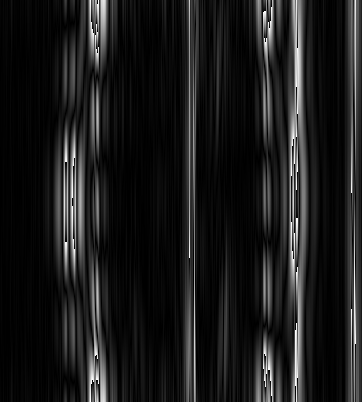
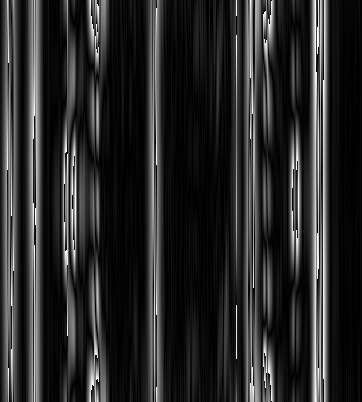
adds information on stripe removal methods

diff --git a/docs/source/scripts/methods_to_generate_images.py b/docs/source/scripts/methods_to_generate_images.py
@@ -120,7 +120,6 @@ def run_methods(path_to_data: str, output_folder: str) -> int:
     assert np.sum(data_normalized_np) > 41711
     # __save_res_to_image(data_normalized_np, output_folder, methods_name, slice_numb)
 
-    ## %%%%%%%%%%%%%%%%%%%%%%%%%%%%%%%%%%%%%%%%%%%%%%%%%%%
     methods_name = "rescale_to_int"
     print("___{}___".format(methods_name))
     from httomolibgpu.misc.rescale import rescale_to_int
@@ -225,9 +224,6 @@ def run_methods(path_to_data: str, output_folder: str) -> int:
     )
     del res_cp, res_np
 
-    return 0
-
-    ## %%%%%%%%%%%%%%%%%%%%%%%%%%%%%%%%%%%%%%%%%%%%%%%%%%%
     methods_name = "raven_filter"
     print("___{}___".format(methods_name))
     from tomophantom.artefacts import artefacts_mix
@@ -236,8 +232,8 @@ def run_methods(path_to_data: str, output_folder: str) -> int:
     )
 
     _stripes_ = {
-        "stripes_percentage": 1.2,
-        "stripes_maxthickness": 3.0,
+        "stripes_percentage": 2.0,
+        "stripes_maxthickness": 3,
         "stripes_intensity": 0.3,
         "stripes_type": "full",
         "stripes_variability": 0.005,
@@ -250,13 +246,13 @@ def run_methods(path_to_data: str, output_folder: str) -> int:
     data_after_raven_gpu = raven_filter(
         cp.asarray(data_normalized_np_artefacts, dtype=cp.float32),
         uvalue=20,
-        nvalue=4,
+        nvalue=2,
         vvalue=2,
     ).get()
     slice_numb = 64
 
     max_scale_data_normalized_s = np.max(data_normalized_np_artefacts)
-    min_scale_data_normalized_s = np.min(data_normalized_np_artefacts)
+    min_scale_data_normalized_s = -0.01
 
     __save_res_to_image(
         data_normalized_np_artefacts,
@@ -283,8 +279,97 @@ def run_methods(path_to_data: str, output_folder: str) -> int:
         max_scale=0.1,
         min_scale=0,
     )
-    del data_normalized_np_artefacts
+    del data_after_raven_gpu
 
+    methods_name = "remove_stripe_based_sorting"
+    print("___{}___".format(methods_name))
+    from httomolibgpu.prep.stripe import (
+        remove_stripe_based_sorting,
+    )
+
+    data_after_stripe_based_sorting = remove_stripe_based_sorting(
+        cp.asarray(data_normalized_np_artefacts, dtype=cp.float32), size=21, dim=1
+    )
+
+    __save_res_to_image(
+        data_after_stripe_based_sorting.get(),
+        output_folder,
+        methods_name,
+        slice_numb,
+        max_scale=max_scale_data_normalized_s,
+        min_scale=min_scale_data_normalized_s,
+    )
+    __save_res_to_image(
+        np.abs(data_after_stripe_based_sorting.get() - data_normalized_np_artefacts),
+        output_folder,
+        methods_name=methods_name + "_res",
+        slice_numb=slice_numb,
+        max_scale=0.1,
+        min_scale=0,
+    )
+    del data_after_stripe_based_sorting
+
+    methods_name = "remove_stripe_ti"
+    print("___{}___".format(methods_name))
+    from httomolibgpu.prep.stripe import (
+        remove_stripe_ti,
+    )
+
+    data_after_remove_stripe_ti = remove_stripe_ti(
+        cp.asarray(data_normalized_np_artefacts, dtype=cp.float32), beta=0.03
+    )
+
+    __save_res_to_image(
+        data_after_remove_stripe_ti.get(),
+        output_folder,
+        methods_name,
+        slice_numb,
+        max_scale=max_scale_data_normalized_s,
+        min_scale=min_scale_data_normalized_s,
+    )
+    __save_res_to_image(
+        np.abs(data_after_remove_stripe_ti.get() - data_normalized_np_artefacts),
+        output_folder,
+        methods_name=methods_name + "_res",
+        slice_numb=slice_numb,
+        max_scale=0.1,
+        min_scale=0,
+    )
+    del data_after_remove_stripe_ti
+
+    methods_name = "remove_all_stripe"
+    print("___{}___".format(methods_name))
+    from httomolibgpu.prep.stripe import (
+        remove_all_stripe,
+    )
+
+    data_after_remove_all_stripe = remove_all_stripe(
+        cp.asarray(data_normalized_np_artefacts, dtype=cp.float32),
+        snr=3.0,
+        la_size=61,
+        sm_size=21,
+        dim=1,
+    )
+
+    __save_res_to_image(
+        data_after_remove_all_stripe.get(),
+        output_folder,
+        methods_name,
+        slice_numb,
+        max_scale=max_scale_data_normalized_s,
+        min_scale=min_scale_data_normalized_s,
+    )
+    __save_res_to_image(
+        np.abs(data_after_remove_all_stripe.get() - data_normalized_np_artefacts),
+        output_folder,
+        methods_name=methods_name + "_res",
+        slice_numb=slice_numb,
+        max_scale=0.1,
+        min_scale=0,
+    )
+    del data_after_remove_all_stripe
+
+    del data_normalized_np_artefacts
     return 0
 
 

diff --git a/httomolibgpu/prep/stripe.py b/httomolibgpu/prep/stripe.py
@@ -58,7 +58,7 @@ def remove_stripe_based_sorting(
 ) -> Union[cp.ndarray, np.ndarray]:
     """
     Remove full and partial stripe artifacts from sinogram using Nghia Vo's
-    approach, see :cite:`vo2018superior`. This algorithm works particularly
+    approach, see :ref:`method_remove_stripe_based_sorting` and :cite:`vo2018superior`. This algorithm works particularly
     well for removing partial stripes.
 
     Steps of the algorithm: 1. Sort each column of the sinogram by its grayscale values.
@@ -119,7 +119,7 @@ def remove_stripe_ti(
 ) -> Union[cp.ndarray, np.ndarray]:
     """
     Removes stripes with the method of V. Titarenko (TomoCuPy implementation).
-    See :cite:`titarenko2010analytical`.
+    See :ref:`method_remove_stripe_ti` and :cite:`titarenko2010analytical`.
 
     Parameters
     ----------
@@ -179,7 +179,7 @@ def remove_all_stripe(
 ) -> cp.ndarray:
     """
     Remove all types of stripe artifacts from sinogram using Nghia Vo's
-    approach, see :cite:`vo2018superior` (combination of algorithm 3,4,5, and 6).
+    approach, see :ref:`method_remove_all_stripe` and :cite:`vo2018superior` (combination of algorithm 3,4,5, and 6).
 
     Parameters
     ----------

diff --git a/docs/source/reference/methods_list/remove_all_stripe.rst b/docs/source/reference/methods_list/remove_all_stripe.rst
@@ -1,0 +1,62 @@
+.. _method_remove_all_stripe:
+
+Remove stripes combo
+^^^^^^^^^^^^^^^^^^^^
+
+**Description**
+
+This stripe removal algorithm is developed by Dr. Nghia Vo and is a part of the module :doc:`../../api/httomolibgpu.prep.stripe` for data correction.
+This filter works in the sinogram space to minimise stripes leading to `Ring Artifacts <https://radiopaedia.org/articles/ring-artifact-2?lang=gb>`_ in the reconstruction. See more about the filter in the original publication :cite:`vo2018superior`.
+Also more information about the method can be found on the author's software `Sarepy <https://sarepy.readthedocs.io/>`_.
+
+Remove stripes combination uses four algorithms applied sequentially to the data in order to remove different types of stripe artefacts as presented in the paper :cite:`vo2018superior`.
+
+**Where and how to use it:**
+
+Remove stripes combination should be applied when different types of stripe artefacts present in the data (e.g. small or large or partial stripes). It is useful to have a look at this
+`classification <https://sarepy.readthedocs.io/toc/section2.html>`_ of different ring/stripe artefacts beforehand. The method can be used blindly, however,
+applying multiple pre-processing algorithms can distort the data, resulting in artefacts in the reconstruction. Meaning that if there are not to many stripes in the data and the method is still applied,
+could result in suboptimal reconstructions.
+
+**What are the adjustable parameters:**
+
+As this method based on multiple algorithms, including :ref:`method_remove_stripe_based_sorting`, it has a number of free parameters.
+The :code:`snr` parameter is used to detect and remove large stripes. The associated to that method parameter :code:`la_size` is used to remove
+large stripes, also by means of sorting. Parameter :code:`sm_size` defines the size of the median filter when sorting is performed to remove
+thinner stripes.
+
+**Practical example:**
+
+In this example we demonstrate how to apply remove stripes combo algorithm to the normalised projection data.
+
+.. warning:: As with any pre-processing tool, one needs to be careful in applying stripe removal algorithm to data. Sub-optimal parameters can potentially lead to other artifacts introduced in the reconstruction.
+.. list-table::
+
+
+    * - .. figure:: ../../_static/auto_images_methods/data_stripes_added_sino.png
+
+           Input (sinogram view) with the stripes added
+
+      - .. figure:: ../../_static/auto_images_methods/data_stripes_added_proj.png
+
+           Input (projection view) with the stripes added
+
+    * - .. figure:: ../../_static/auto_images_methods/remove_all_stripe_sino.png
+
+           After applying remove stripes combo (sinogram)
+
+      - .. figure:: ../../_static/auto_images_methods/remove_all_stripe_proj.png
+
+           After applying remove stripes combo (projection)
+
+    * - .. figure:: ../../_static/auto_images_methods/remove_all_stripe_res_sino.png
+
+           Sinogram view of absolute residual between input and output
+
+      - .. figure:: ../../_static/auto_images_methods/remove_all_stripe_res_proj.png
+
+           Projection view of absolute residual between input and output
+
+
+
+

diff --git a/docs/source/reference/methods_list/remove_stripe_based_sorting.rst b/docs/source/reference/methods_list/remove_stripe_based_sorting.rst
@@ -1,0 +1,55 @@
+.. _method_remove_stripe_based_sorting:
+
+Remove stripes by sorting
+^^^^^^^^^^^^^^^^^^^^^^^^^^
+
+**Description**
+
+This stripe removal algorithm is developed by Dr. Nghia Vo and is a part of the module :doc:`../../api/httomolibgpu.prep.stripe` for data correction.
+This filter works in the sinogram space to minimise stripes leading to `Ring Artifacts <https://radiopaedia.org/articles/ring-artifact-2?lang=gb>`_ in the reconstruction. See more about the filter in the original publication :cite:`vo2018superior`.
+Also more information about the method can be found on the author's software `Sarepy <https://sarepy.readthedocs.io/>`_.
+
+**Where and how to use it:**
+
+Stripe removal method is used for data pre-processing, i.e., before the reconstruction to remove the stripes present in the data. If the stripes are not removed,
+this will lead to ring artefacts in the reconstruction and further problems with quantification and segmentation.
+
+**What are the adjustable parameters:**
+
+The important parameter here is :code:`size` which is responsible for the size of the median filter where sorting is performed.
+
+**Practical example:**
+
+In this example we demonstrate how to apply the stripe removal algorithm to the normalised projection data.
+
+.. warning:: As with any pre-processing tool, one needs to be careful in applying stripe removal algorithm to data. Sub-optimal parameters can potentially lead to other artifacts introduced in the reconstruction.
+.. list-table::
+
+
+    * - .. figure:: ../../_static/auto_images_methods/data_stripes_added_sino.png
+
+           Input (sinogram view) with the stripes added
+
+      - .. figure:: ../../_static/auto_images_methods/data_stripes_added_proj.png
+
+           Input (projection view) with the stripes added
+
+    * - .. figure:: ../../_static/auto_images_methods/remove_stripe_based_sorting_sino.png
+
+           After applying remove stripes by sorting (sinogram)
+
+      - .. figure:: ../../_static/auto_images_methods/remove_stripe_based_sorting_proj.png
+
+           After applying remove stripes by sorting (projection)
+
+    * - .. figure:: ../../_static/auto_images_methods/remove_stripe_based_sorting_res_sino.png
+
+           Sinogram view of absolute residual between input and output
+
+      - .. figure:: ../../_static/auto_images_methods/remove_stripe_based_sorting_res_proj.png
+
+           Projection view of absolute residual between input and output
+
+
+
+

diff --git a/docs/source/reference/methods_list/remove_stripe_ti.rst b/docs/source/reference/methods_list/remove_stripe_ti.rst
@@ -1,0 +1,55 @@
+.. _method_remove_stripe_ti:
+
+Remove stripes Titarenko
+^^^^^^^^^^^^^^^^^^^^^^^^
+
+**Description**
+
+This stripe removal algorithm is developed by Dr. Sofya Titarenko and is a part of the module :doc:`../../api/httomolibgpu.prep.stripe` for data correction.
+This filter works in the sinogram space to minimise stripes leading to `Ring Artifacts <https://radiopaedia.org/articles/ring-artifact-2?lang=gb>`_ in the reconstruction. See more about the filter in the original publication :cite:`titarenko2010analytical`.
+The algorithm uses a priori information about the sinogram, such as its smoothness and symmetry.
+
+**Where and how to use it:**
+
+Stripe removal method is used for data pre-processing, i.e., before the reconstruction to remove the stripes present in the data. If the stripes are not removed,
+this will lead to ring artefacts in the reconstruction and further problems with quantification and segmentation.
+
+**What are the adjustable parameters:**
+
+The important parameter here is :code:`beta` which is responsible for strength of the filter. Note that lower values increase the filter strength.
+
+**Practical example:**
+
+In this example we demonstrate how to apply Titarenko's stripe removal algorithm to the normalised projection data.
+
+.. warning:: As with any pre-processing tool, one needs to be careful in applying stripe removal algorithm to data. Sub-optimal parameters can potentially lead to other artifacts introduced in the reconstruction.
+.. list-table::
+
+
+    * - .. figure:: ../../_static/auto_images_methods/data_stripes_added_sino.png
+
+           Input (sinogram view) with the stripes added
+
+      - .. figure:: ../../_static/auto_images_methods/data_stripes_added_proj.png
+
+           Input (projection view) with the stripes added
+
+    * - .. figure:: ../../_static/auto_images_methods/remove_stripe_ti_sino.png
+
+           After applying remove stripes by Titarenko's stripe removal (sinogram)
+
+      - .. figure:: ../../_static/auto_images_methods/remove_stripe_ti_proj.png
+
+           After applying remove stripes by Titarenko's stripe removal (projection)
+
+    * - .. figure:: ../../_static/auto_images_methods/remove_stripe_ti_res_sino.png
+
+           Sinogram view of absolute residual between input and output
+
+      - .. figure:: ../../_static/auto_images_methods/remove_stripe_ti_res_proj.png
+
+           Projection view of absolute residual between input and output
+
+
+
+

diff --git a/docs/source/reference/methods.rst b/docs/source/reference/methods.rst
@@ -10,6 +10,9 @@ Here we present a list of methods that exist in the HTTomolibGPU library with mo
 Data correction module
 ^^^^^^^^^^^^^^^^^^^^^^
 
+Modules from `Data correction` can be used as pre-processing (e.g. apply :ref:`method_outlier_removal` to raw projection data) or in some
+cases as post-processing (e.g. apply :ref:`method_median_filter` to the result of the reconstruction) tools.
+
 .. toctree::
    :glob:
 
@@ -22,6 +25,8 @@ Data correction module
 Data denoising module
 ^^^^^^^^^^^^^^^^^^^^^^
 
+Modules from `Data denoising` can be used as post-processing tools. For instance, denoising procedures can be applied to the results of the reconstruction.
+
 .. toctree::
    :glob:
 
@@ -33,15 +38,23 @@ Data denoising module
 Stripes removal module
 ^^^^^^^^^^^^^^^^^^^^^^
 
+Modules from `Stripes removal` normally used as pre-processing tools. Stripes removal is equivalent to removing ring artefacts in the reconstructed images.
+
+
 .. toctree::
    :glob:
 
+   methods_list/remove_stripe_based_sorting
+   methods_list/remove_all_stripe
+   methods_list/remove_stripe_ti
    methods_list/raven_filter
 
 .. _data_rescale_module:
 
 Data rescale module
-^^^^^^^^^^^^^^^^^^^^^^
+^^^^^^^^^^^^^^^^^^^
+
+Modules from `Data rescale` is usually needed when the data needs to be rescaled to be saved in different bit-type as images.
 
 .. toctree::
    :glob:
